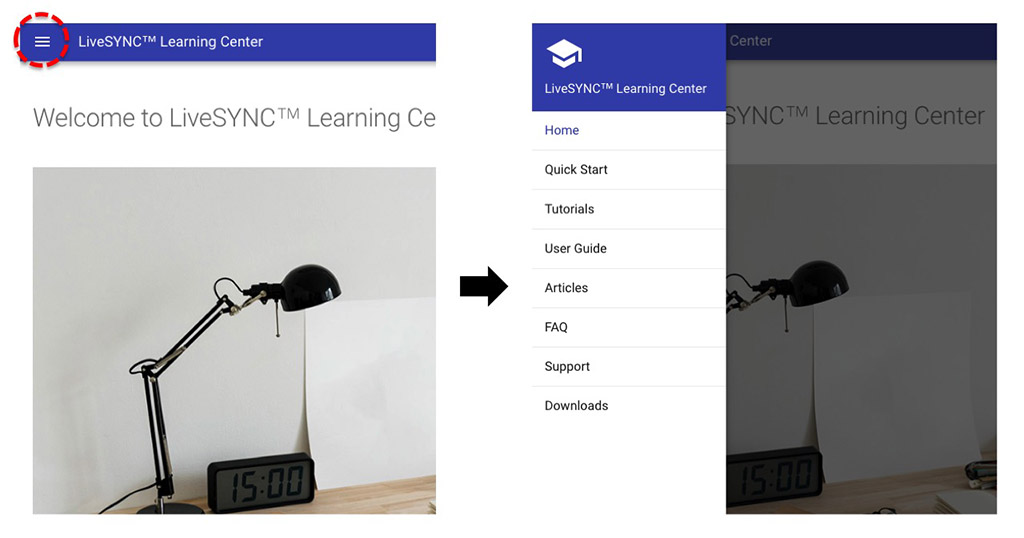
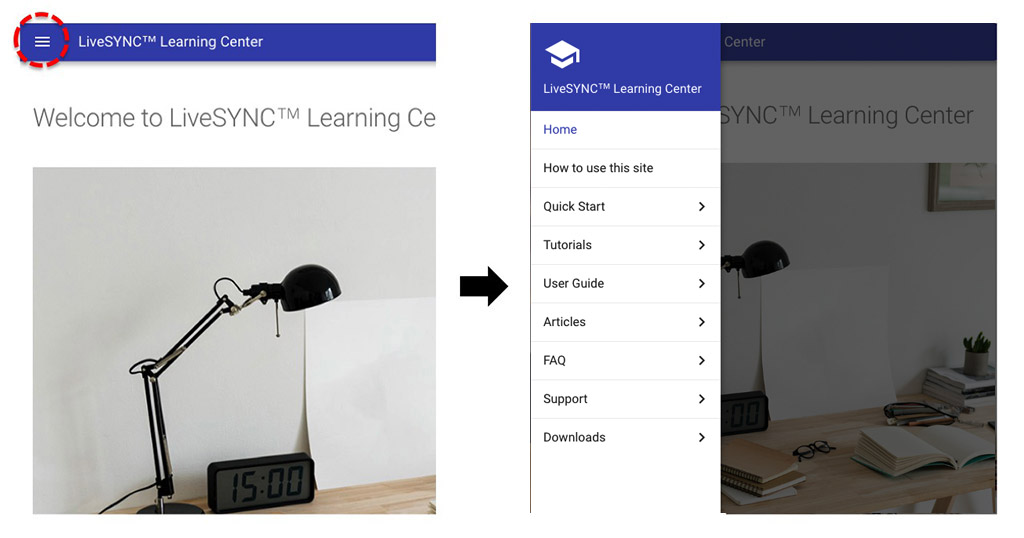
Updated site how-to as the structure was changed and tabs introduced.

diff --git a/docs/README.md b/docs/README.md
@@ -2,30 +2,29 @@
 
 ![Cover](img/StockSnap_HMHAGY1BYE_edited.jpg)
 
-This site contains the documentation for *LiveSYNC Presentation Solution*, [a software tool](http://www.livesync.info) developed by [Finwe Ltd](https://www.finwe.fi). Here you will find tutorials and guides for self-learning and various downloadable resources.
+This site contains the documentation for *LiveSYNC Presentation Solution*, [a software tool](http://www.livesync.info) developed by [Finwe Ltd](https://www.finwe.fi). Here you will find material for self-learning and problem-solving, as well as various downloadable resources.
 
 ## Solutions for learning
 
 <!--
 ### Training and certification
 
-Training courses are available at request, even on-site at your company. 
-[Contact us](support/support.md) to learn more about upcoming courses and 
+Training courses are available at request, even on-site at your company.
+[Contact us](support/support.md) to learn more about upcoming courses and
 LiveSYNC Certified Expert program.
 -->
 
 ### [How to Use This Site](site_howto/site_howto.md)
 
-Read about different options for accessing this site, learn how to navigate, and get familiar with the conventions used on this site.
+Read about different options for accessing this site, learn how to navigate, and get familiar with the used conventions.
 
 ### [Quick Start](quick_start/quick_start.md)
 
-A short introduction to LiveSYNC that gets you going in 15 minutes.
+Quick start guides are short introductions that summarize the steps to take to accomplish a task. These will get you going in minutes. Start from here if you are in a hurry.
 
 ### [Tutorials](tutorials/tutorials.md)
 
-Learn how LiveSYNC can help you work faster and smarter. Tutorials are written to-the-point
-and quickly show how to accomplish common tasks.
+Tutorials focus on a specific topic and collect the relevant information in one place.
 
 ### [User Guide](user_guide/user_guide.md)
 
@@ -34,8 +33,7 @@ background knowledge.
 
 ### [Articles](articles/articles.md)
 
-Articles are written by LiveSYNC experts and focus on specific topics and use cases. Here
-you can learn best practises and find example configurations.
+Articles are written by LiveSYNC experts. They focus on broader topics and specific use cases. Here you can learn best practices and find example configurations.
 
 ### [FAQ](faq/faq.md)
 
@@ -43,8 +41,7 @@ Got a question? Check out frequently asked questions to get an answer quickly.
 
 ### [Support](support/support.md)
 
-Contact us to ask a question from the developers, send a feature
-request, suggest an article, or notify us of an error in the docs - we are listening.
+Contact us to ask a question from the developers, send a feature request, suggest an article, or notify us of an error in the docs - we are listening.
 
 ## Resources
 
@@ -61,11 +58,11 @@ Download FREE templates to be used as a basis for creating your own configuratio
 ### Creative Commons
 ![CC_BY_NC_SA](https://i.creativecommons.org/l/by-nc-sa/3.0/80x15.png)
 
-This work is licensed under a Creative Commons Attribution-Noncommercial-Share Alike 3.0 Unported 
+This work is licensed under a Creative Commons Attribution-Noncommercial-Share Alike 3.0 Unported
 [License](http://creativecommons.org/licenses/by-nc-sa/3.0/), excluding
 
 * Twitter, Facebook, and other social media posts that link to this content
-* Downloadable resource files, which are distributed under different license
+* Downloadable resource files, which are distributed under a different license
 
 <!--
 ## Cookies

diff --git a/docs/site_howto/site_howto.md b/docs/site_howto/site_howto.md
@@ -103,25 +103,27 @@ Currently, you can use a web browser for accessing this site as explained above.
 
 Different areas of the *LiveSYNC Learning Center* are accessible via *the site menu*. The site menu appears in one of two different ways:
 
-#### Expanded menu
+#### Tabs & menu
 
-If your browser window is wide, the menu appears permanently expanded on the left side of the page. Simply click any of the titles to navigate to another area of the site.
+If your browser window is wide, different areas appear as *tabs* in the top bar. Simply click any of the tabs to navigate to another area of the site. When you scroll down, tabs disappear to save space. Scroll back up to reveal them again.
+
+The pages of an active area appear in a menu at the left side of the page. Click a title to navigate to another page.
 
 This option is typical for desktop and laptop computers.
 
-![Cover](img/expanded_menu.jpg)
+![Cover](img/tabs_and_menu.jpg)
 
-*On wide screens, the site menu appears expanded.*
+*On wide screens, different site areas appear as tabs in the top bar. Pages that belong to an area are listed on the left.*
 
 #### Collapsed menu
 
-If your browser window is narrow, the menu appears as a collapsed *hamburger menu* in *the top bar*. Click the hamburger icon to temporarily expand the site menu. Then, click any of the titles to navigate to another area of the site. Once selected, the menu will collapse again.
+If your browser window is narrow, the menu appears as a collapsed *hamburger menu* in *the top bar*. Click the hamburger icon to temporarily expand the site menu. Different areas of the site appear as submenus, which you can open by clicking them. To navigate to a page, click its title. Once selected, the menu will collapse again.
 
 This option is typical for phones, tablets, and VR headsets.
 
 ![Cover](img/collapsed_menu.jpg)
 
-*On narrow screens, the site menu appears collapsed. It can be opened by clicking the hamburger menu icon.*
+*On narrow screens, the site menu appears collapsed. It can be opened by clicking the hamburger menu icon. Clicking a submenu reveals pages that belong to that area. Clicking a page title opens that page.*
 
 ### Table of contents
 
